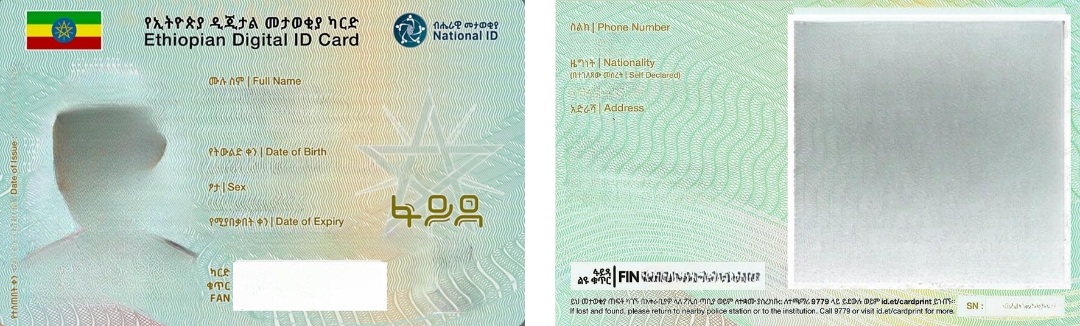
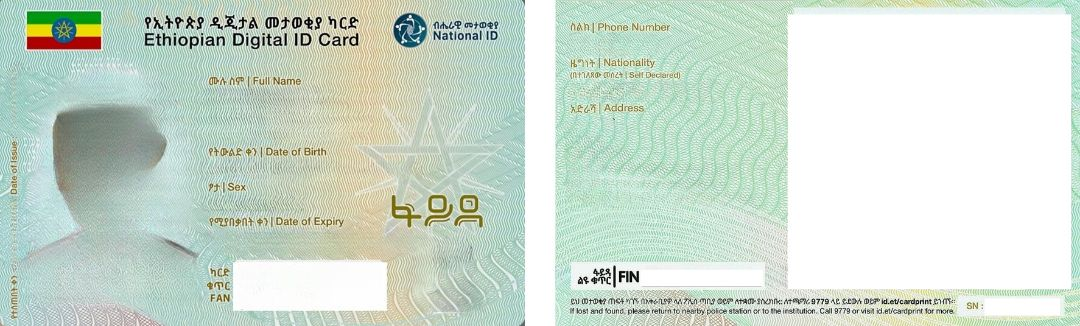
pages customized

diff --git a/src/components/PrintableID.tsx b/src/components/PrintableID.tsx
@@ -366,7 +366,25 @@ export function PrintableID({ data }: PrintableIDProps) {
         h,
       );
 
-      // FIN Number - bottom of back side
+      drawTextOnCanvasBold(
+        // ctx,
+        // data.fin_number,
+        // 0.6,
+        // 0.87,
+        // w,
+        // h,
+        // Math.round(h * 0.04),
+
+        ctx,
+        data.fin_number,
+        0.6,
+        0.868,
+        w,
+        h,
+        Math.round(h * 0.0444),
+        color,
+      );
+      
       // drawTextOnCanvas(
       //   ctx,
       //   data.fin_number,
@@ -523,7 +541,7 @@ export function PrintableID({ data }: PrintableIDProps) {
         <body>
           <img src="${dataUrl}" />
           <script>
-            window.onload = function() { window.print(); window.close(); };
+            window.onload = function() { window.print();};
           </script>
         </body>
       </html>
@@ -622,7 +640,7 @@ export function PrintableID({ data }: PrintableIDProps) {
       <CardHeader className="pb-3">
         <CardTitle className="text-lg flex items-center gap-2">
           <Printer className="h-5 w-5 text-primary" />
-          Printable ID Card
+          Printable ID Card (Check the information and add manually below if incorrect value is detected)
         </CardTitle>
         {hasColorProfile && (
           <div className="flex items-center gap-2 mt-2">

diff --git a/src/pages/Index.tsx b/src/pages/Index.tsx
@@ -199,7 +199,7 @@ const Index = () => {
                 </div>
 
                 <IDUploader
-                  label="Color ID Card (Optional · for colored photo & QR)"
+                  label="Color ID Card (Optional · for colored photo)"
                   onFileSelect={handleColorSelect}
                   preview={colorPreview}
                   onClear={handleClearColor}
